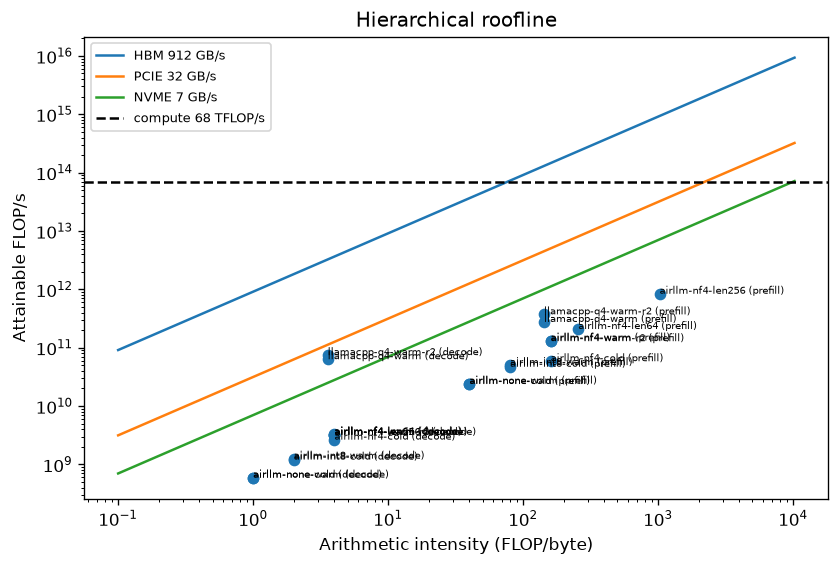
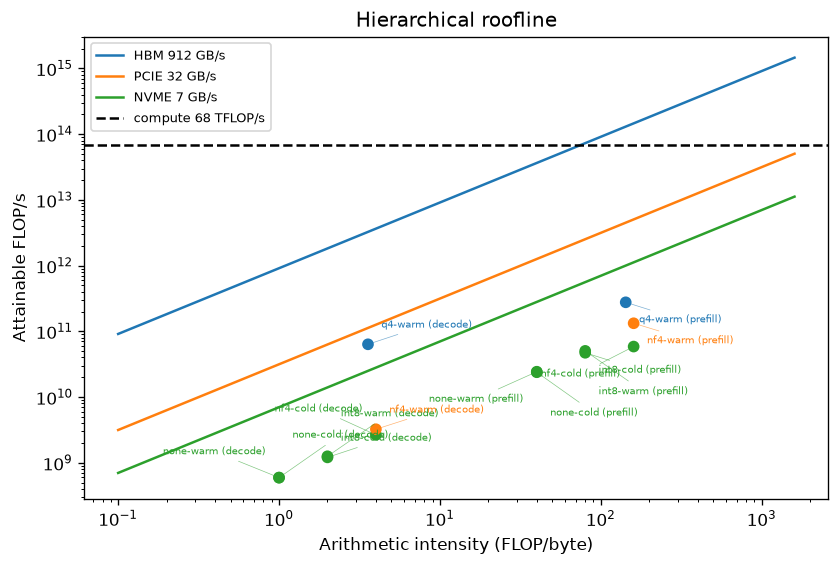
fix: de-clutter the hierarchical roofline figure (#27)
* fix: de-clutter the hierarchical roofline figure

The centerpiece chart stacked ~17 long labels on top of each other and plotted
redundant runs. Three focused changes, no change to the underlying analysis:

- Canonical run set: new tested `prepare.roofline_runs` keeps one run per
  (runner, quant, phase) at the baseline length, dropping the -r2 repeats and
  the len64/len256 sweep runs that crowd the chart without adding to the
  memory-hierarchy argument (~17 points -> ~14, and no duplicate labels).
- Colour points by the ceiling they bind to (HBM/PCIe/NVMe), matching the
  diagonals — so the thesis reads through colour: only nf4 has both a green
  (cold, NVMe) and an orange (warm, PCIe) dot, the tier climb; int8/none decode
  stay green (stuck on NVMe); q4 is blue (HBM).
- Compact labels (drop the runner prefix — the quant identifies it) on short
  staggered leader lines, so clustered points stay legible.

Only figures/roofline.png changes. RED->GREEN tests for the canonical selector
and the compact label. Full gate green: ruff + mypy --strict + 179 tests @ 99%.

* fix: make roofline_runs deterministic regardless of input order (PR #27 review)

Antigravity [Blocking]: roofline_runs relied on its caller for ordering. Sort by
exp_id inside the selector so the canonical chart is self-sufficiently
deterministic: the base run reliably beats its -r2 repeat into each
(runner,quant,phase) slot, and the returned order — which drives the staggered
[…]

diff --git a/src/airllm_bench/plotting/roofline_fig.py b/src/airllm_bench/plotting/roofline_fig.py
@@ -1,15 +1,19 @@
 """The hierarchical roofline figure (D7) — the report's unifying chart.
 
 One compute ceiling (horizontal) plus the HBM/PCIe/NVMe bandwidth diagonals;
-each measured run is scattered at (arithmetic intensity, achieved FLOP/s). The
-AirLLM points sit far below the silicon roof on the NVMe/PCIe diagonals, and
-nf4-warm sits a tier above nf4-cold — the memory hierarchy made visible.
+each measured run is scattered at (arithmetic intensity, achieved FLOP/s) and
+**coloured by the ceiling it binds to**, so a point visually belongs to its
+diagonal. The AirLLM points sit far below the silicon roof on the NVMe/PCIe
+diagonals, and nf4-warm sits a tier above nf4-cold — the memory hierarchy made
+visible. Labels are compact and offset on short leader lines so the low-left
+decode cluster stays readable.
 """
 
 from __future__ import annotations
 
 from collections.abc import Sequence
 
+from matplotlib.axes import Axes
 from matplotlib.figure import Figure
 
 from airllm_bench.plotting.base import new_figure
@@ -17,12 +21,36 @@ from airllm_bench.roofline.ceilings import compute_ceiling_flops, tier_bandwidth
 from airllm_bench.roofline.points import OperatingPoint
 from airllm_bench.shared.config_models import RooflineConfig
 
-_TIERS = ("hbm", "pcie", "nvme")
+#: Each tier drawn (and its points coloured) in one consistent colour.
+_TIER_COLOR = {"hbm": "#1f77b4", "pcie": "#ff7f0e", "nvme": "#2ca02c"}
+#: Staggered label offsets (points) cycled to keep clustered labels from overlapping.
+_LABEL_OFFSETS = ((8, 10), (8, -12), (8, 24), (8, -26), (-8, 14), (-8, -18))
 
 
 def _intensity_range(points: Sequence[OperatingPoint]) -> list[float]:
     intensities = [p.intensity_flops_per_byte for p in points] or [1.0]
     return [min(intensities) / 10, max(intensities) * 10]
+
+
+def _short_label(point: OperatingPoint) -> str:
+    """Drop the runner prefix (quant already identifies it): ``nf4-cold (decode)``."""
+    return f"{point.exp_id.split('-', 1)[-1]} ({point.phase})"
+
+
+def _annotate(ax: Axes, points: Sequence[OperatingPoint]) -> None:
+    for i, p in enumerate(points):
+        color = _TIER_COLOR.get(p.binding_tier, "black")
+        dx, dy = _LABEL_OFFSETS[i % len(_LABEL_OFFSETS)]
+        ax.annotate(
+            _short_label(p),
+            (p.intensity_flops_per_byte, p.achieved_flops),
+            textcoords="offset points",
+            xytext=(dx, dy),
+            ha="right" if dx < 0 else "left",
+            fontsize=6,
+            color=color,
+            arrowprops={"arrowstyle": "-", "lw": 0.4, "color": color, "alpha": 0.6},
+        )
 
 
 def roofline_fig(rc: RooflineConfig, points: Sequence[OperatingPoint]) -> Figure:
@@ -31,10 +59,10 @@ def roofline_fig(rc: RooflineConfig, points: Sequence[OperatingPoint]) -> Figure
         "Hierarchical roofline", "Arithmetic intensity (FLOP/byte)", "Attainable FLOP/s"
     )
     xs = _intensity_range(points)
-    compute = compute_ceiling_flops(rc)
-    for tier in _TIERS:
+    for tier, color in _TIER_COLOR.items():
         bw = tier_bandwidth_bytes_s(rc, tier)
-        ax.plot(xs, [bw * x for x in xs], label=f"{tier.upper()} {bw / 1e9:.0f} GB/s")
+        ax.plot(xs, [bw * x for x in xs], color=color, label=f"{tier.upper()} {bw / 1e9:.0f} GB/s")
+    compute = compute_ceiling_flops(rc)
     ax.axhline(
         compute, linestyle="--", color="black", label=f"compute {compute / 1e12:.0f} TFLOP/s"
     )
@@ -42,16 +70,10 @@ def roofline_fig(rc: RooflineConfig, points: Sequence[OperatingPoint]) -> Figure
         ax.scatter(
             [p.intensity_flops_per_byte for p in points],
             [p.achieved_flops for p in points],
+            c=[_TIER_COLOR.get(p.binding_tier, "black") for p in points],
             zorder=3,
         )
-        for p in points:
-            # exp_id alone collides: a resident run has both a prefill and a decode
-            # point — the phase disambiguates the compute-bound vs memory-bound dot.
-            ax.annotate(
-                f"{p.exp_id} ({p.phase})",
-                (p.intensity_flops_per_byte, p.achieved_flops),
-                fontsize=6,
-            )
+        _annotate(ax, points)
     ax.set_xscale("log")
     ax.set_yscale("log")
     ax.legend(fontsize=8)

diff --git a/tests/unit/test_plotting/test_prepare.py b/tests/unit/test_plotting/test_prepare.py
@@ -9,6 +9,7 @@ from airllm_bench.plotting.prepare import (
     itl_series,
     perplexity_by_quant,
     realistic_run,
+    roofline_runs,
     throughput_by_scenario,
     ttft_curve,
 )
@@ -113,6 +114,32 @@ def test_perplexity_pins_one_global_length_across_quants() -> None:
         _r("int8-64", "airllm", "int8", "warm", prompt_tokens=64, perplexity=24.2),
     ]
     assert perplexity_by_quant(rows) == {"4-bit": 39.9}  # int8 has no 40-token run
+
+
+def test_roofline_runs_keeps_one_canonical_run_per_scenario() -> None:
+    # The roofline plots one point per (runner, quant, phase) at the baseline length.
+    # Repeat (-r2) and length-sweep runs only crowd the chart without changing the
+    # memory-hierarchy argument, so they must be dropped.
+    rows = [
+        _r("airllm-nf4-cold", "airllm", "nf4", "cold", ttft_s=43.7, throughput_tok_s=0.04),
+        _r("airllm-nf4-warm", "airllm", "nf4", "warm", ttft_s=19.3, throughput_tok_s=0.05),
+        _r("airllm-nf4-warm-r2", "airllm", "nf4", "warm", ttft_s=19.8, throughput_tok_s=0.05),
+        _r("airllm-nf4-len64", "airllm", "nf4", "warm", prompt_tokens=64, ttft_s=20.0),
+        _r("airllm-nf4-len256", "airllm", "nf4", "warm", prompt_tokens=256, ttft_s=21.0),
+    ]
+    kept = {r.exp_id for r in roofline_runs(rows)}
+    assert kept == {"airllm-nf4-cold", "airllm-nf4-warm"}  # r2 + length sweep dropped
+
+
+def test_roofline_runs_is_deterministic_regardless_of_input_order() -> None:
+    # make figures must redraw an identical chart every time: the base run (not -r2)
+    # always wins its slot, and the returned order (which drives label-offset layout)
+    # is stable — independent of filesystem globbing order.
+    base = _r("airllm-nf4-warm", "airllm", "nf4", "warm", ttft_s=19.3)
+    r2 = _r("airllm-nf4-warm-r2", "airllm", "nf4", "warm", ttft_s=19.8)
+    forward = [r.exp_id for r in roofline_runs([base, r2])]
+    reverse = [r.exp_id for r in roofline_runs([r2, base])]
+    assert forward == reverse == ["airllm-nf4-warm"]  # base beats -r2, order stable
 
 
 def test_itl_series_picks_nf4_cold_and_warm() -> None:

diff --git a/src/airllm_bench/plotting/prepare.py b/src/airllm_bench/plotting/prepare.py
@@ -93,6 +93,26 @@ def cautionary_airllm_run(results: Sequence[RunResult]) -> RunResult | None:
     return _first(results, runner="airllm", quant="nf4", phase="warm", prompt_tokens=base)
 
 
+def roofline_runs(results: Sequence[RunResult]) -> list[RunResult]:
+    """Canonical runs for the roofline: one per (runner, quant, phase) at the
+    baseline length.
+
+    The repeat (-r2) and length-sweep runs only crowd the centerpiece chart
+    without changing the memory-hierarchy argument, so they are dropped here —
+    the figure builder stays dumb and plots whatever it is handed.
+    """
+    canonical: dict[tuple[str, str, str], RunResult] = {}
+    # Sort by exp_id so the chart is deterministic regardless of filesystem order:
+    # the base run reliably beats its -r2 repeat into each slot, and the returned
+    # order (which drives the staggered label offsets) is stable across rebuilds.
+    for r in sorted(results, key=lambda run: run.exp_id):
+        base = _baseline_length(results, r.runner, r.quant)
+        if r.prompt_tokens != base:
+            continue
+        canonical.setdefault((r.runner, r.quant, r.phase), r)
+    return list(canonical.values())
+
+
 def itl_series(results: Sequence[RunResult]) -> dict[str, list[float]]:
     """{label: inter-token series} for the nf4 cold vs warm runs (the spike)."""
     out: dict[str, list[float]] = {}

diff --git a/tests/unit/test_plotting/test_roofline_fig.py b/tests/unit/test_plotting/test_roofline_fig.py
@@ -50,8 +50,9 @@ def test_roofline_handles_no_points() -> None:
     assert len(fig.axes[0].lines) == 4
 
 
-def test_point_annotations_include_the_phase() -> None:
-    # decode and prefill share an exp_id; the phase must disambiguate them.
+def test_point_annotations_are_compact_and_include_the_phase() -> None:
+    # decode and prefill share an exp_id; the phase must disambiguate them. The label
+    # drops the runner prefix (the quant identifies it) to keep the chart readable.
     fig = roofline_fig(_rc(), [_pt("llamacpp-q4-warm", 4.0, 1e10)])
     texts = [t.get_text() for t in fig.axes[0].texts]
-    assert "llamacpp-q4-warm (decode)" in texts
+    assert "q4-warm (decode)" in texts

diff --git a/src/airllm_bench/plotting/build.py b/src/airllm_bench/plotting/build.py
@@ -72,7 +72,10 @@ def build_figures(
             throughput_fig(prepare.throughput_by_scenario(results)), out / "throughput.png"
         ),
         save_figure(perplexity_fig(prepare.perplexity_by_quant(results)), out / "perplexity.png"),
-        save_figure(roofline_fig(rc, _operating_points(results, rc, setup)), out / "roofline.png"),
+        save_figure(
+            roofline_fig(rc, _operating_points(prepare.roofline_runs(results), rc, setup)),
+            out / "roofline.png",
+        ),
     ]
     realistic = prepare.realistic_run(results)
     airllm = prepare.cautionary_airllm_run(results)
